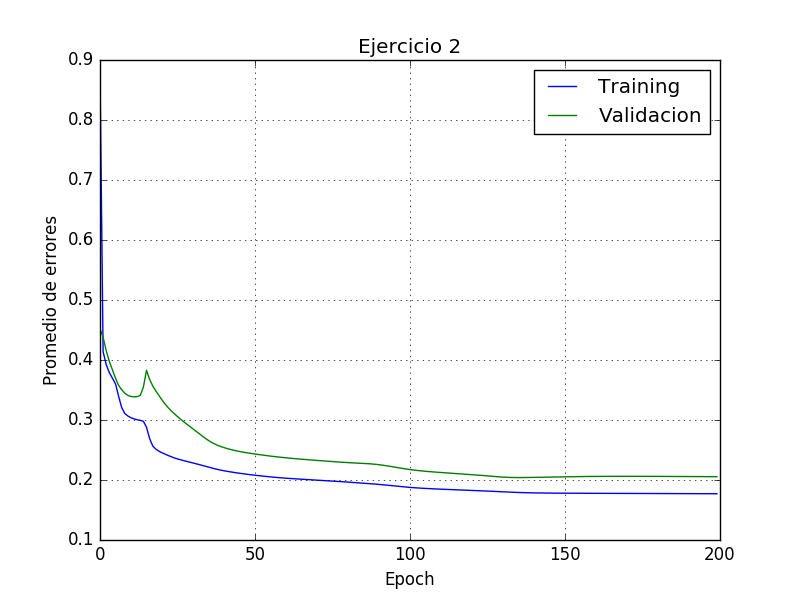
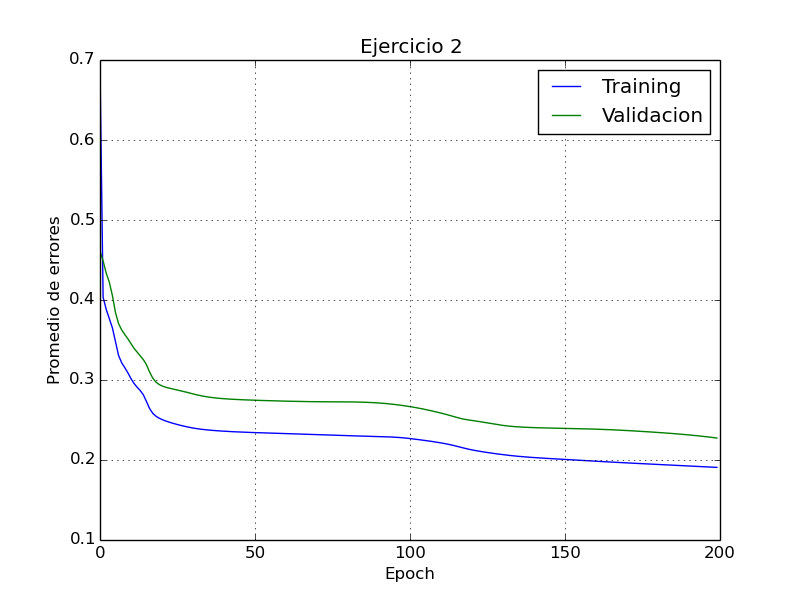
cambios en el informe

diff --git a/TP1/tex/experimentacion.tex b/TP1/tex/experimentacion.tex
@@ -154,5 +154,22 @@ Y para esta obtuvimos los siguientes graficos.
 
 Se puede ver en estos graficos que...
 
+Al igual que en el ejercicio anterior, probamos a mano cambiar los valores de los parametros pero de todas formas no encotnramos nada mejor. En general todos los resultados que obtuvimos fueron como este:
 
+\includegraphics[scale=0.4]{img/ej20050915sum}
+\includegraphics[scale=0.4]{img/ej20050915mean}
+
+estos graficos corresponden a los siguientes parametros:
+
+\begin{enumerate}
+\item epsilon: 0.1
+\item tau: 200
+\item etha: 0.05
+\item momentum: 0.9
+\item holdoutRate: 0.7
+\item modo: Incremental
+\item unidades por capa: 5
+\end{enumerate}
+
+Como se podra ver en los graficos elegimos el primer modelo porque .....
 \subsection{Conclusion}
